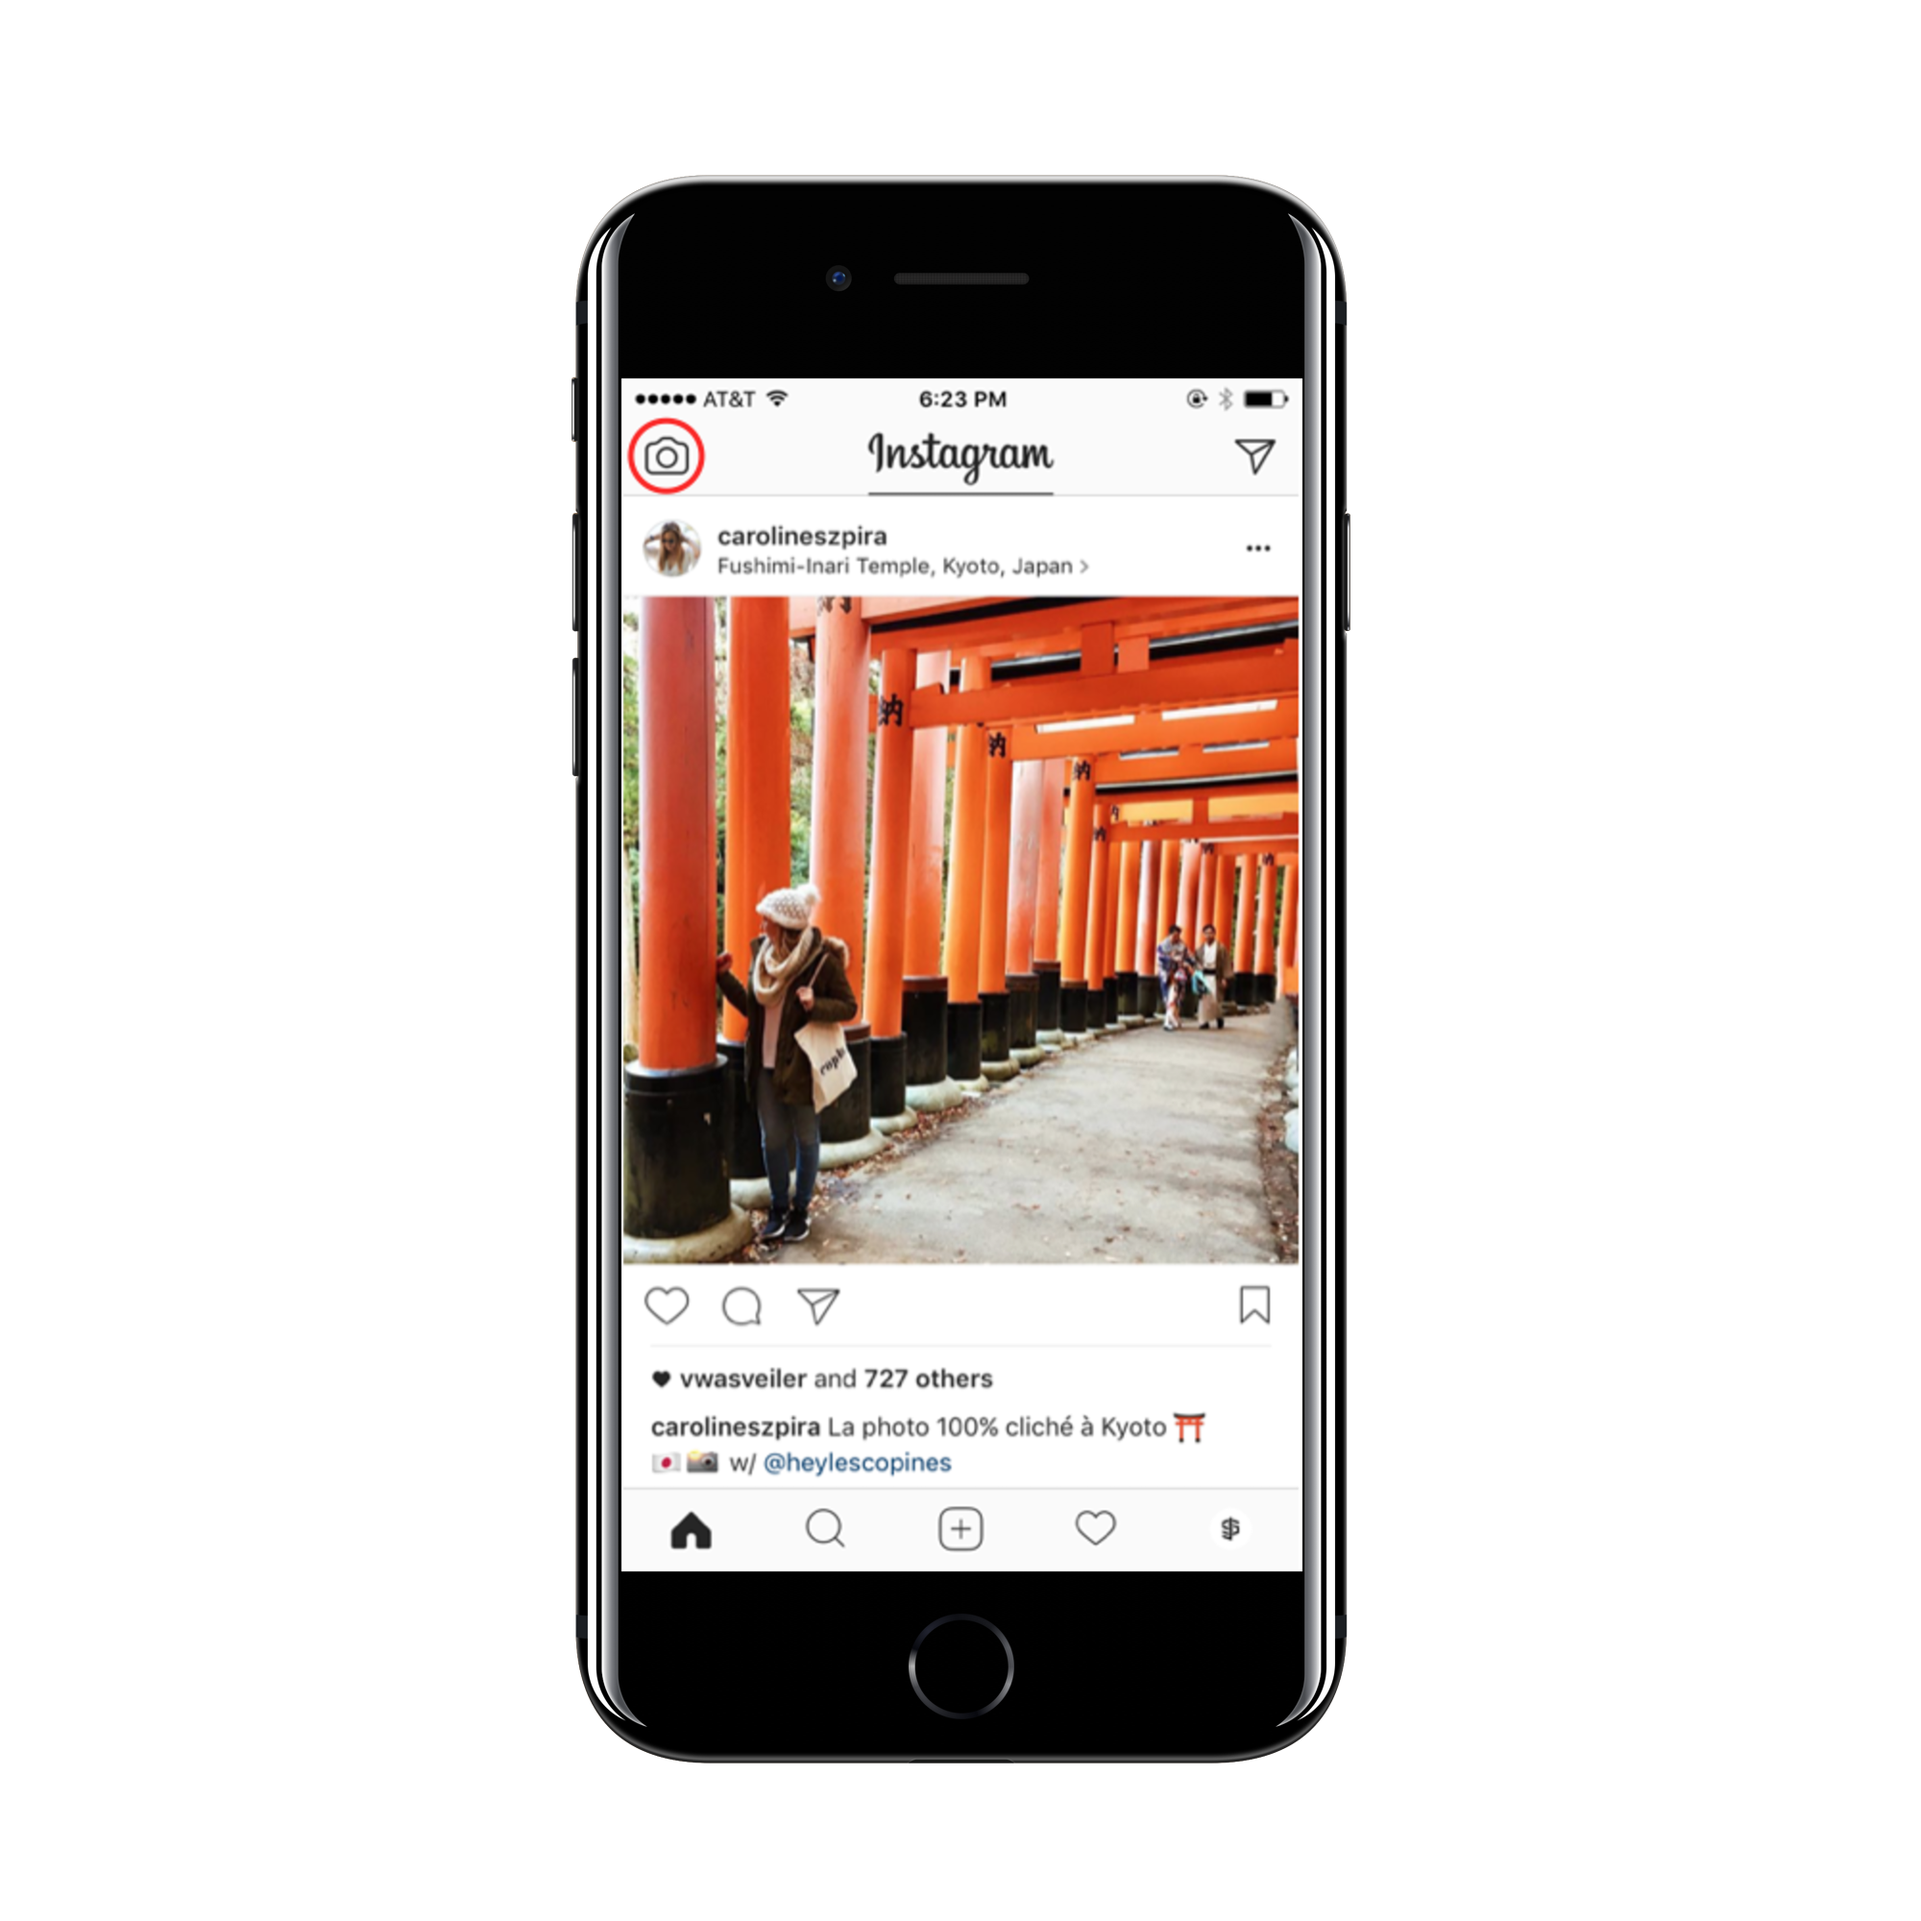
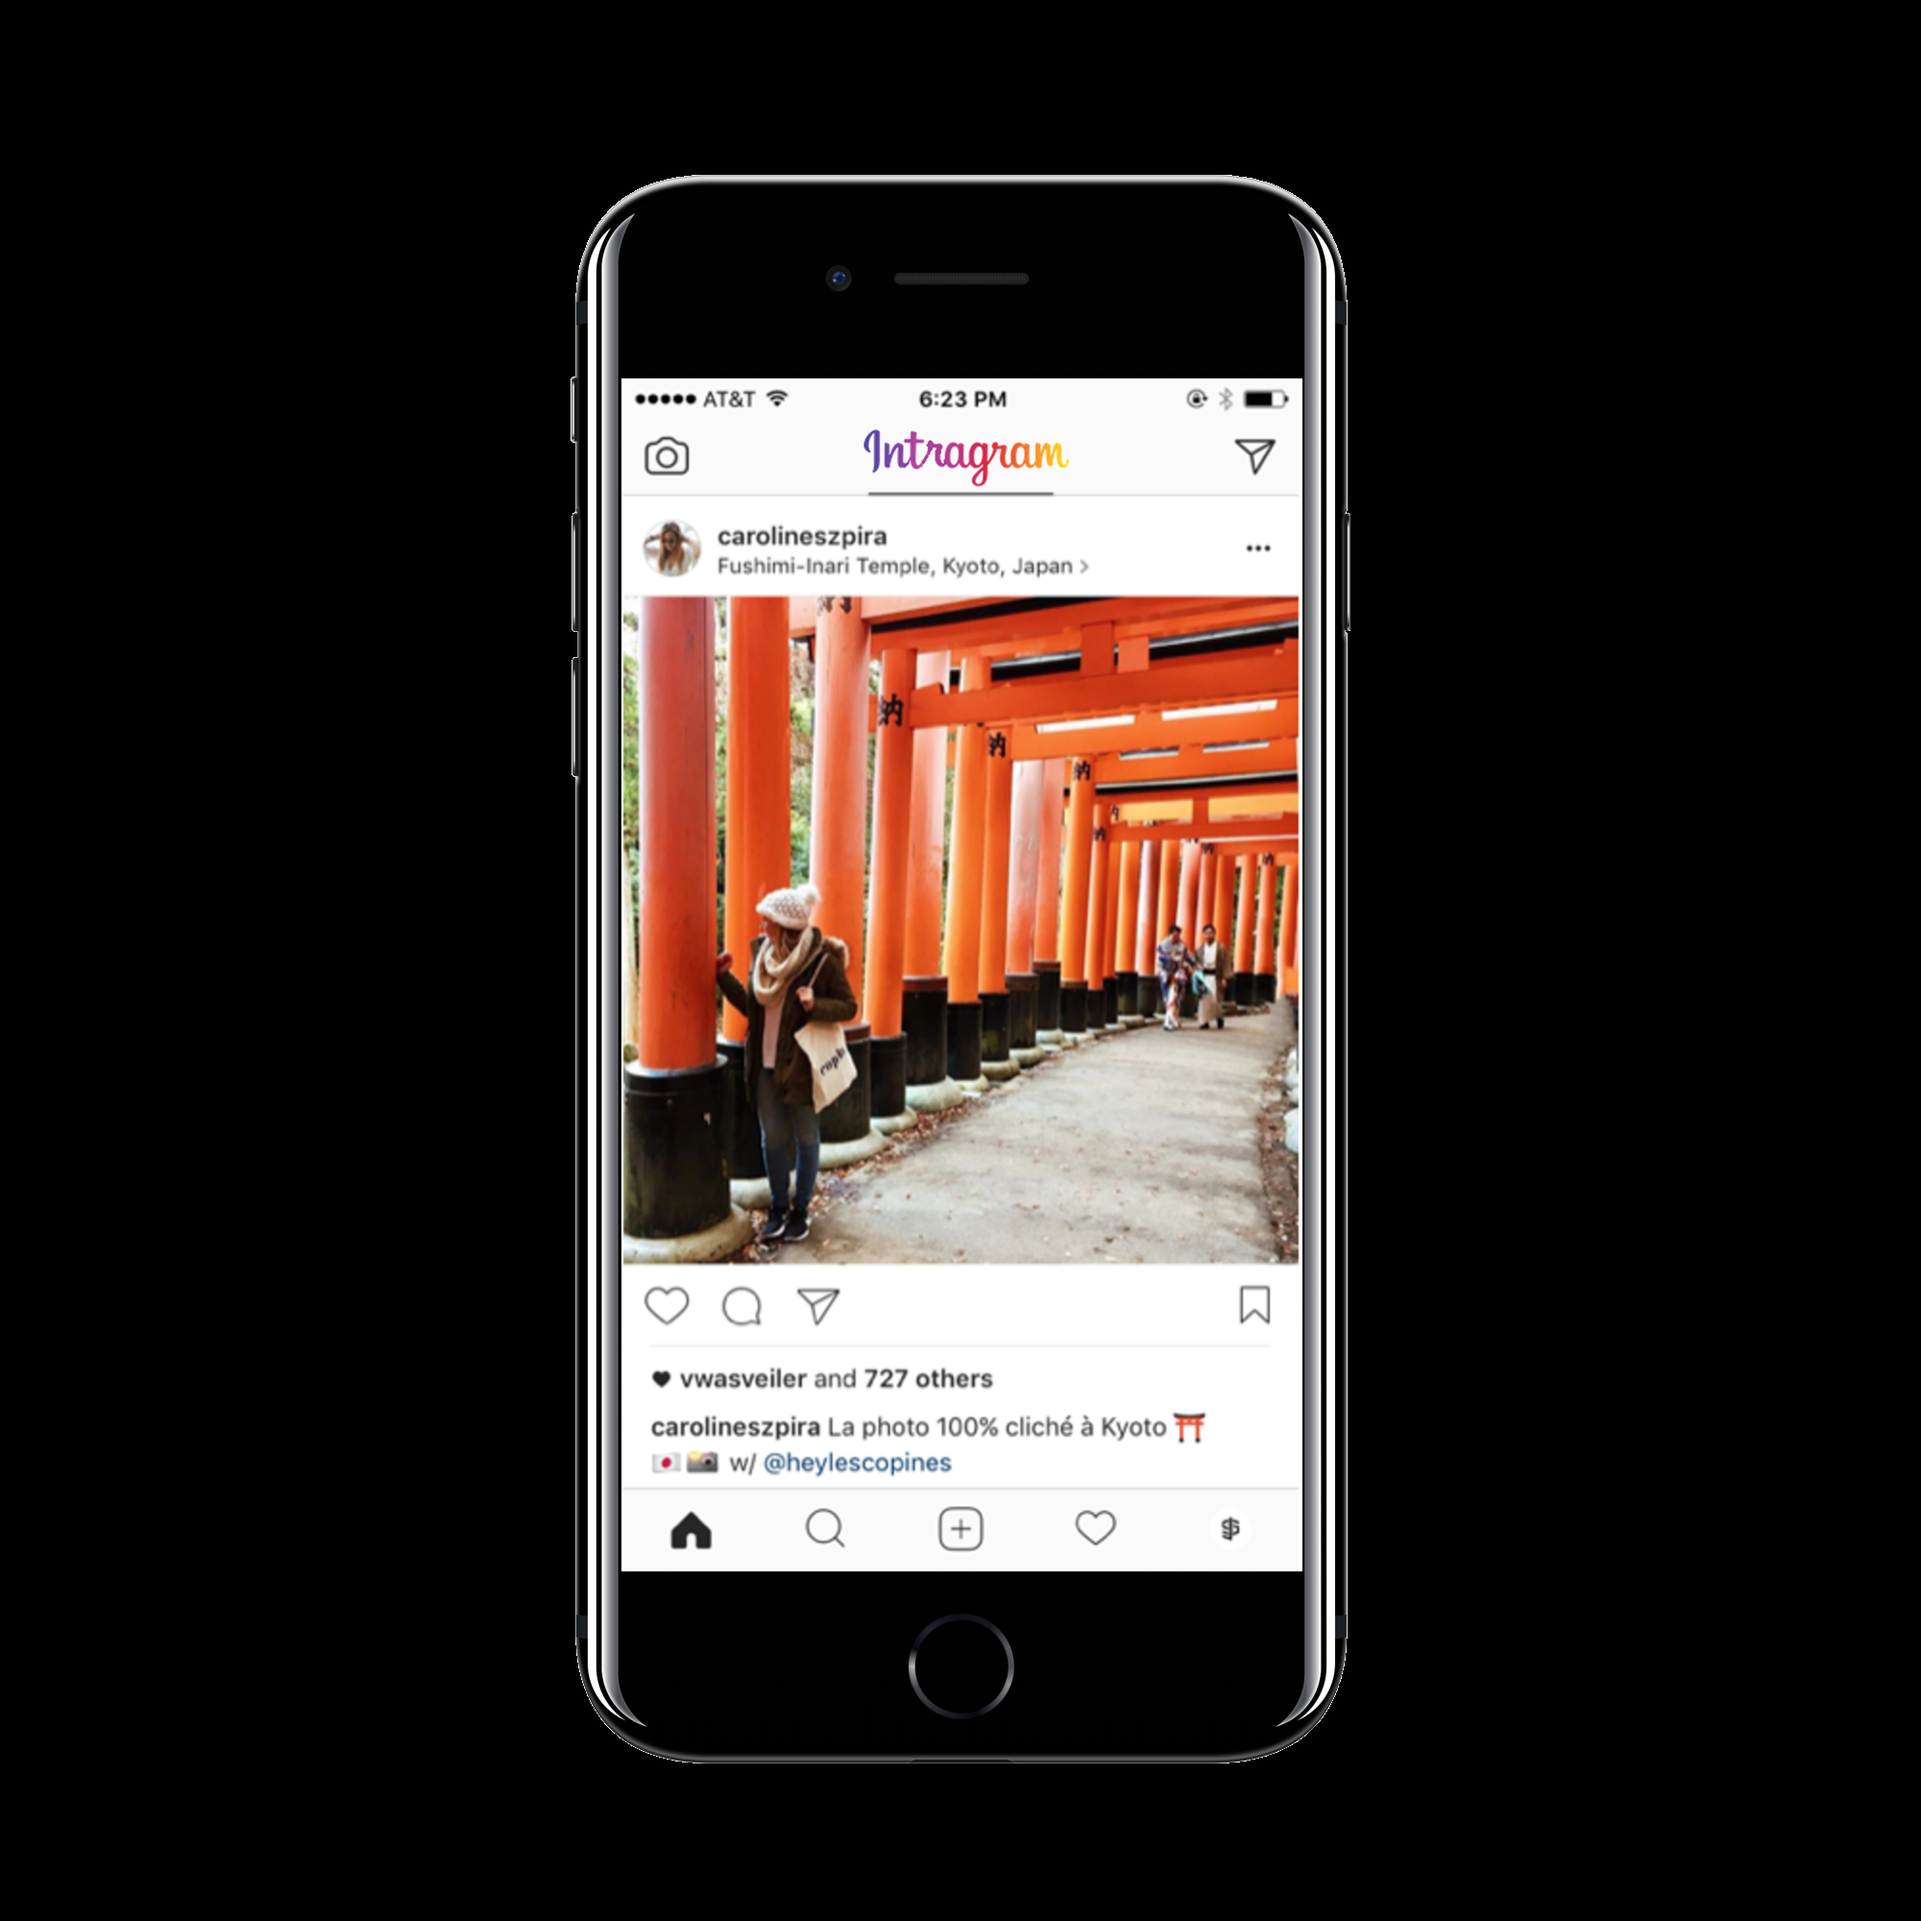
Add files via upload
Versão Final

diff --git a/INTRAGRAM/style.css b/INTRAGRAM/style.css
@@ -10,7 +10,7 @@
 body {
     width: 100%;
     min-height: 100vh;
-    background-color: rgb(243, 243, 243);
+    background-color: rgb(0, 0, 0);
     margin: 0;
     padding: 0;
     display: flex;
@@ -50,10 +50,10 @@ body {
     justify-content: space-between;
     align-items: center;
     flex-direction: column;
-    background-color: #ffffff;
+    background-color: rgb(0, 0, 0);
     width: 100%;
     padding: 1.3rem 0;
-    border: 1px solid lightgray;
+    border: 1px solid rgb(12, 12, 12);
 }
 
 .group:nth-child(1) {
@@ -77,14 +77,14 @@ body {
 }
 
 .instagram-login {
-    background-color: rgb(12, 62, 136);
-    color: rgb(255, 255, 255);
+    background-color: rgb(0, 0, 0);
+    color: rgb(149, 149, 150);
     padding: 8px;
     border-radius: 5px;
 }
 
 .instagram-logout {
-    color: rgb(28, 82, 163);
+    color: rgb(223, 236, 255);
     margin-top: 1rem;
 }
 
@@ -93,7 +93,7 @@ body {
 }
 
 .link-blue {
-    color: blue;
+    color: rgb(168, 168, 255);
 }
 
 .get-the-app {
@@ -128,12 +128,6 @@ body {
 }
 
 
-/* área para outros dispositivos 
-
-- Arrumar com MOTO G6
-
-*/
-
 
 @media (max-width: 1024px) {
     .instagram-face {
@@ -143,7 +137,7 @@ body {
 
 @media (max-width: 650px) {
     body {
-        background-color: #ffffff;
+        background-color: #000000;
     }
 
     .instagram-face {

diff --git a/INTRAGRAM/index.html b/INTRAGRAM/index.html
@@ -24,9 +24,9 @@
             <div class="group">
                 <p class="not-account">Não é digtheus?</p>
                 <p class="not-account">
-                    <span class="link-blue">Alternar contas</span>
+                    <span class="link-blue">Alternar</span>
                     ou
-                    <span class="link-blue">Inscreva-se</span>
+                    <span class="link-blue">Criar conta</span>
                 </p>
             </div>
             <div class="get-the-app">
@@ -41,11 +41,3 @@
 </body>
 </html>
 
-<!--
-    Minha ideia ainda é colocar algo como Intragram, mas isso fica pra depois
-
-    - Colocar uma cor escura
-    - Mudar a logo e afins
-    - Editar a imagem do celular
-    - Editar a imagem de perfil
--->
